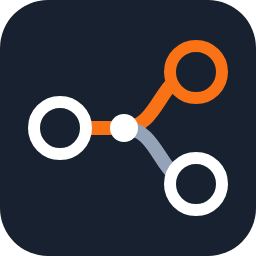
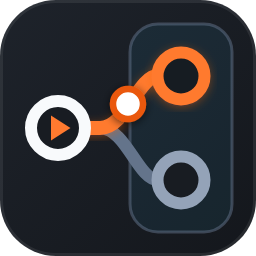
chore(vscode): prepare the 0.1.0 release
Add the final extension icon and date the 0.1.0 changelog entry.

diff --git a/apps/vscode/CHANGELOG.md b/apps/vscode/CHANGELOG.md
@@ -3,7 +3,7 @@
 This project follows [Semantic Versioning](https://semver.org/). The `0.x` series is a preview.
 The `dav` language version is separate from the extension version.
 
-## 0.1.0 (unreleased)
+## 0.1.0 (2026-11-09)
 
 First public preview.
 
